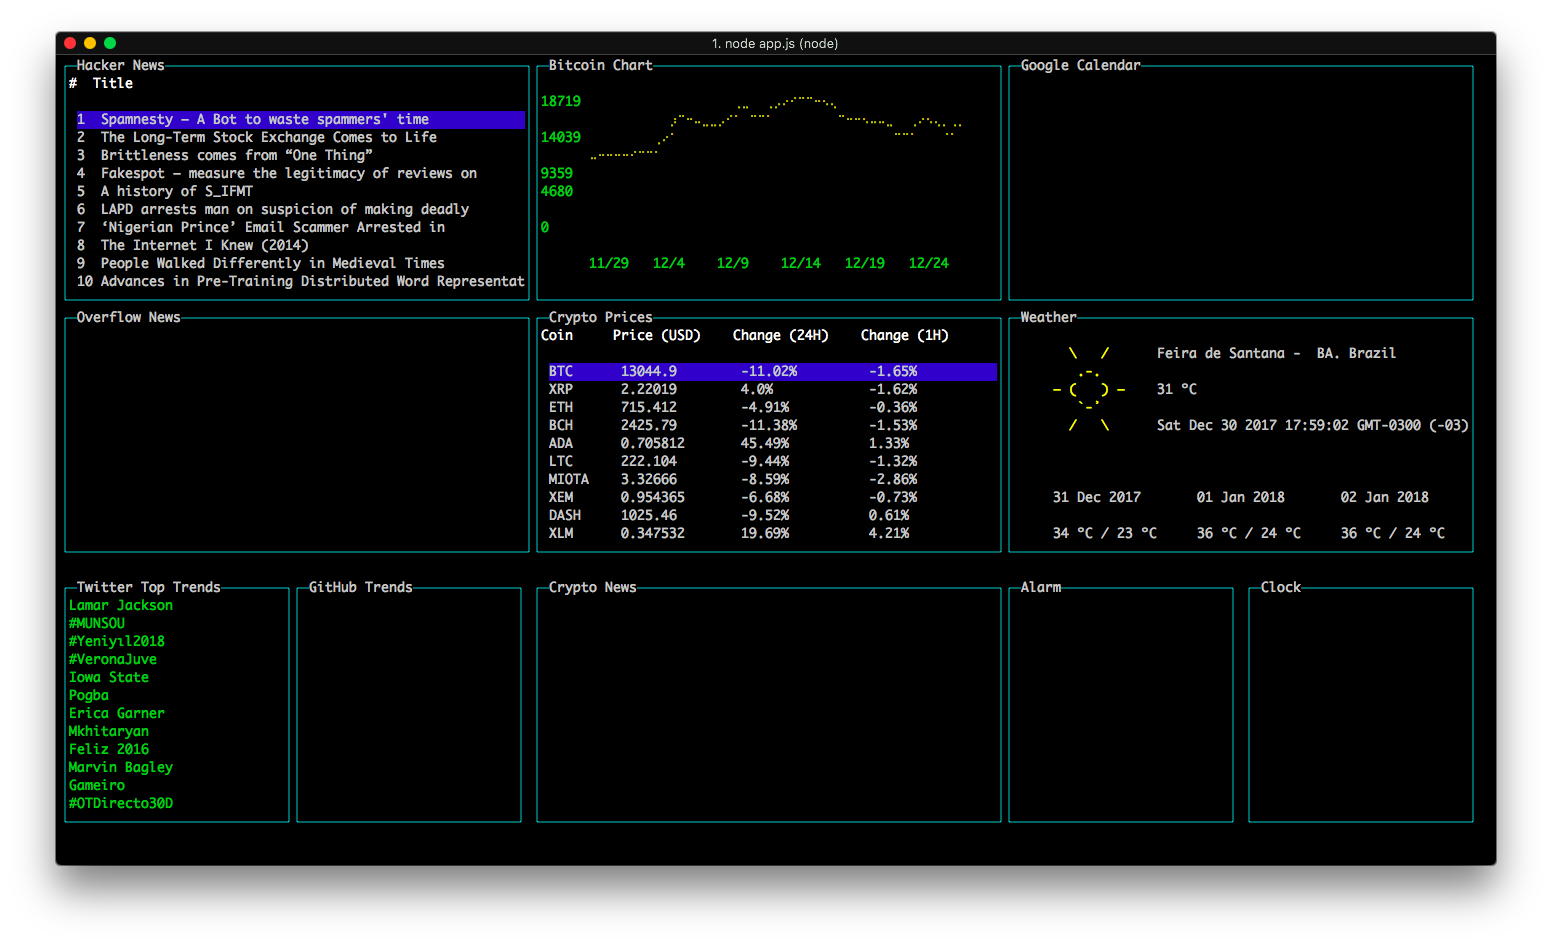
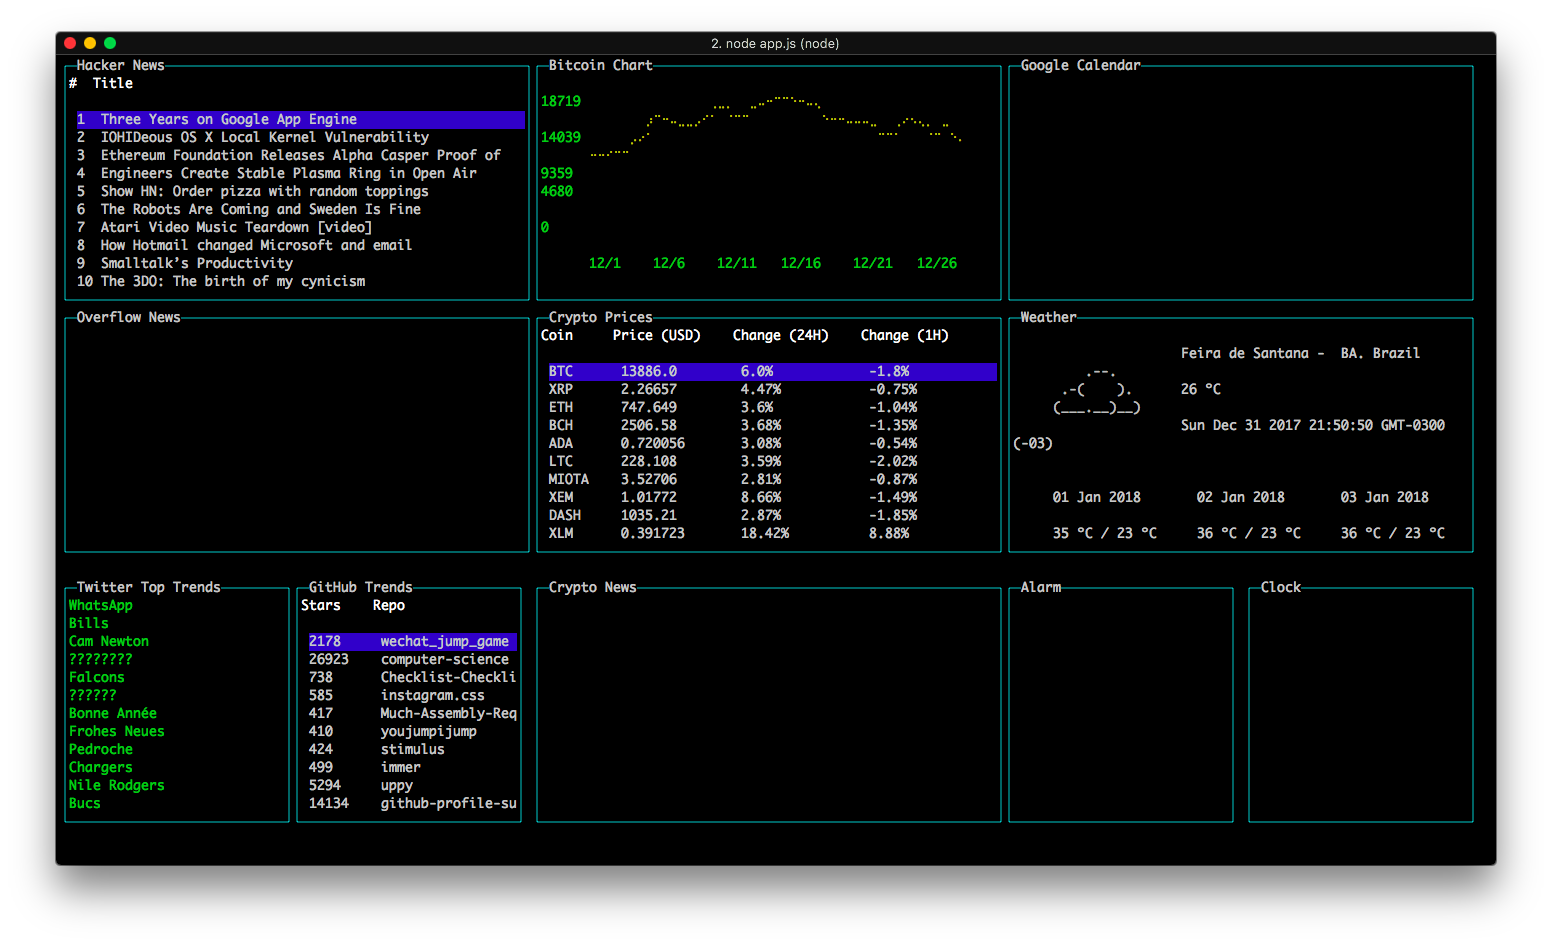
Add GitHub Trends Module

diff --git a/app.js b/app.js
@@ -28,15 +28,26 @@ grid.set(4, 0, 4, 4, blessed.box, {label: 'Overflow News'});
 const twitterTopTrends = grid.set(8, 0, 4, 2, contrib.log, config.twitterTopTrends);
 
 lib.twitterTopTrends.get()
-  .then(function(data){
+  .then(function(data) {
     data.forEach((tweet) => {twitterTopTrends.log(tweet)});
     twitterTopTrends.focus();
     screen.render();
   })
-  .catch(errorHandle);
+  .catch(function(error) {
+    console.log(error);
+  });
 
 // GitHub Trends
-grid.set(8, 2, 4, 2, blessed.box, {label: 'GitHub Trends'});
+const githubTrends = grid.set(8, 2, 4, 2, contrib.table, config.githubTrends);
+
+lib.githubTrends.get(function(data) {
+  githubTrends.setData({
+    headers: ['Stars', 'Repo'],
+    data: data
+  });
+  githubTrends.focus();
+  screen.render();
+});
 
 // Bitcoin Chart
 const bitcoinChart = grid.set(0, 4, 4, 4, contrib.line, config.bitcoinChart);
@@ -92,3 +103,4 @@ screen.key(['escape', 'q', 'C-c'], function (ch, key) {
 });
 
 screen.render();
+

diff --git a/lib/index.js b/lib/index.js
@@ -3,12 +3,14 @@ const hackerNews = require('./hackerNews.js');
 const bitcoinChart = require('./bitcoinChart.js');
 const twitterTopTrends = require('./twitterTopTrends.js');
 const weather = require('./weather.js');
-
+const githubTrends = require('./githubTrends.js');
 
 module.exports = {
   cryptoPrices,
   hackerNews,
   bitcoinChart,
   twitterTopTrends,
-  weather
+  weather,
+  githubTrends
 };
+

diff --git a/config/index.js b/config/index.js
@@ -3,11 +3,13 @@ const hackerNews = require('./hackerNews.js');
 const bitcoinChart = require('./bitcoinChart.js');
 const twitterTopTrends = require('./twitterTopTrends.js');
 const weather = require('./weather.js');
+const githubTrends = require('./githubTrends.js');
 
 module.exports = {
   cryptoPrices,
   hackerNews,
   bitcoinChart,
   twitterTopTrends,
-  weather
+  weather,
+  githubTrends
 };

diff --git a/lib/githubTrends.js b/lib/githubTrends.js
@@ -1,0 +1,19 @@
+const axios = require('axios');
+const trending = require('trending-github');
+
+module.exports = {
+  get: function(callback) {
+    trending()
+    .then(function(response) {
+      const repos = response.map(function(repo) {
+        return [
+          repo.stars,
+          repo.name
+        ];
+      });
+
+      callback(repos);
+    })
+  }
+};
+

diff --git a/lib/weather.js b/lib/weather.js
@@ -34,8 +34,6 @@ let weatherPromise = new Promise((resolve, reject) => {
 		let temp = tempString(results.item.condition.temp, displayInCelsius)
 		let code = results.item.condition.code
 
-		console.log(code)
-
 		let result = []
 		let picture = pictures.hasOwnProperty(code) ? pictures[code] : pictures[100]
 		let picture_slice

diff --git a/config/githubTrends.js b/config/githubTrends.js
@@ -1,0 +1,11 @@
+module.exports = {
+  keys: true,
+  fg: 'white',
+  selectedFg: 'white',
+  selectedBg: 'blue',
+  interactive: true,
+  label: 'GitHub Trends',
+  border: {type: "line", fg: "cyan"},
+  columnSpacing: 5,
+  columnWidth: [5, 19]
+};
